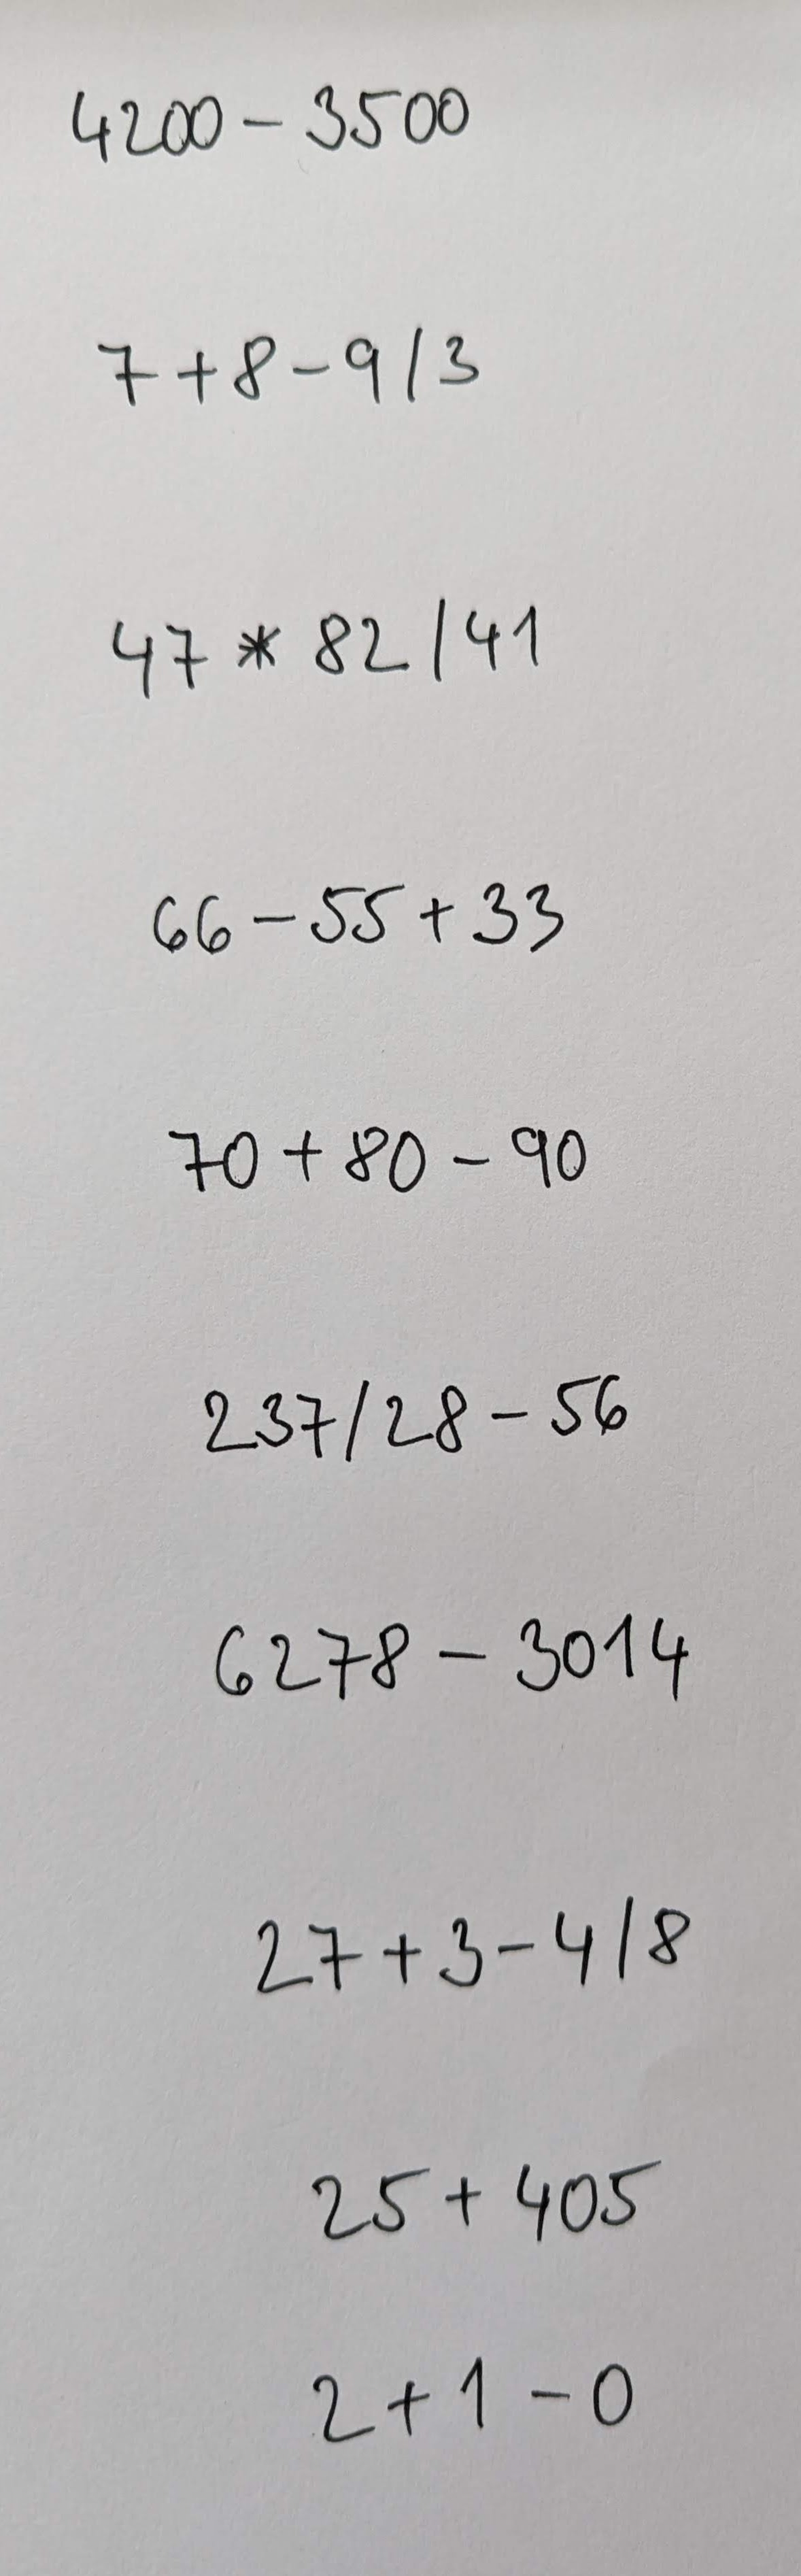
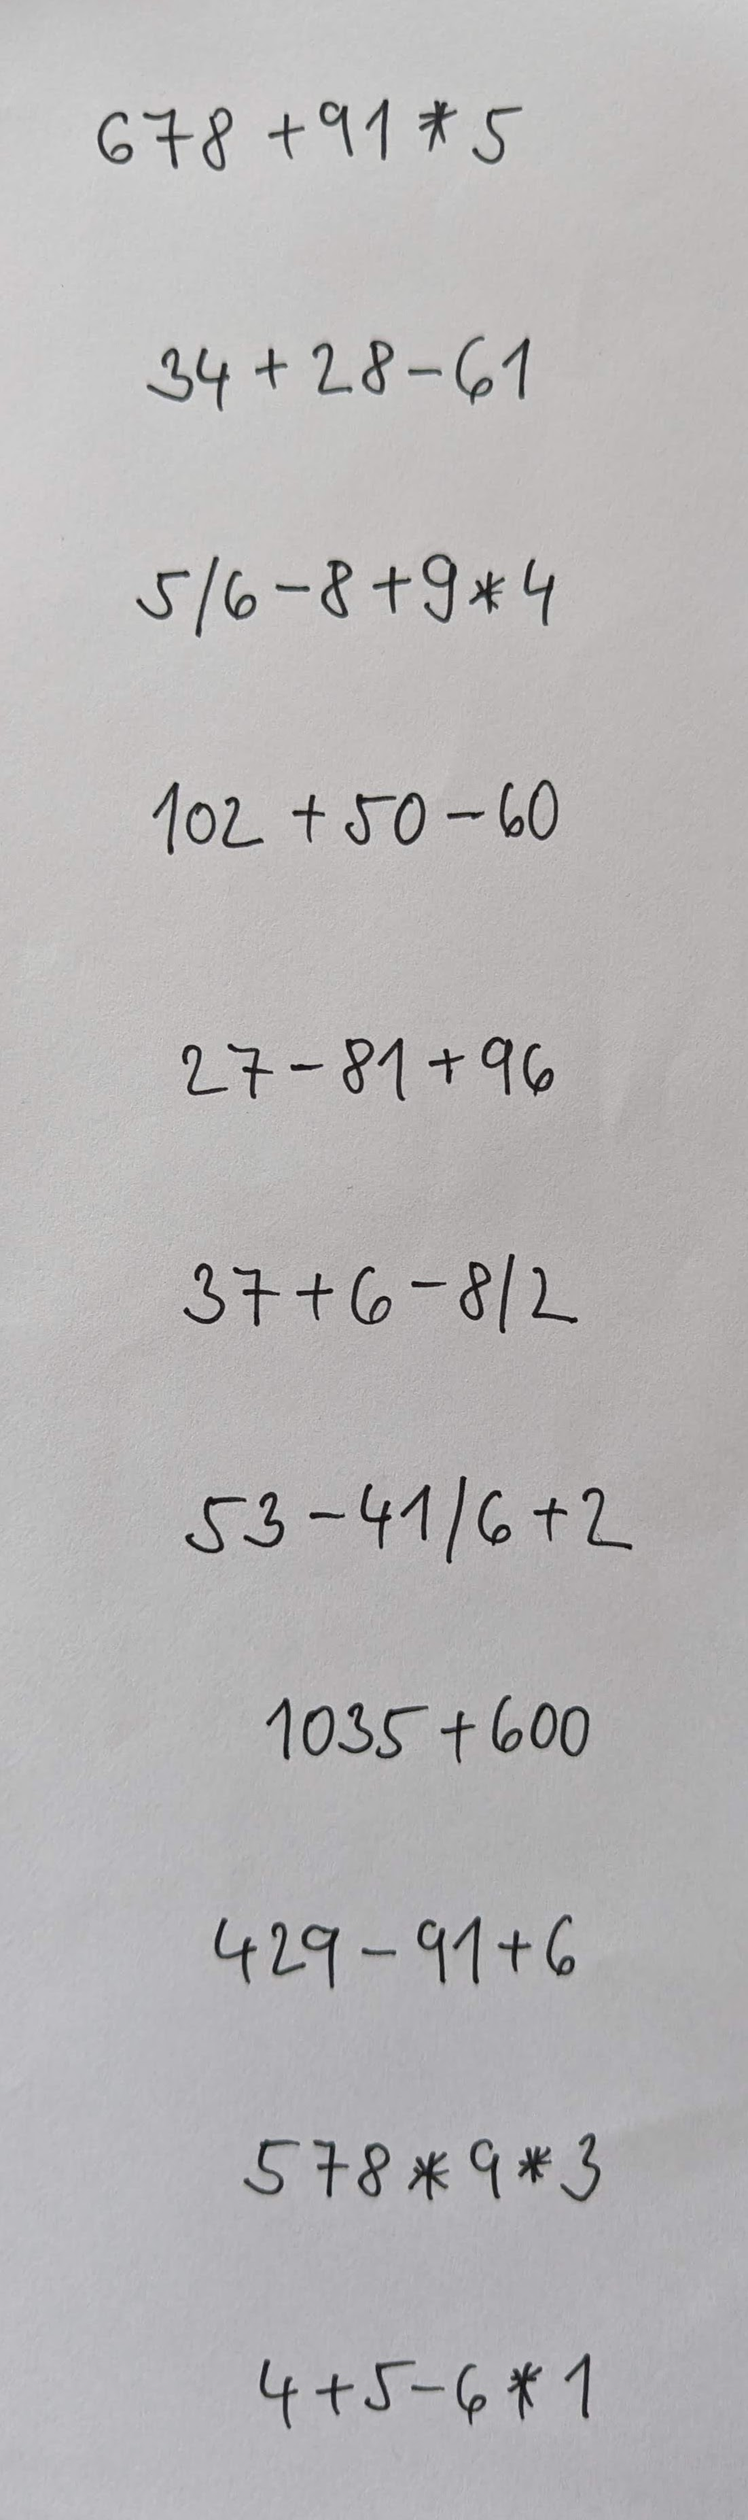
main-rerun of plots

diff --git a/GUI.py b/GUI.py
@@ -24,8 +24,9 @@ def extract_equations(model, image_filename, mser_detector=None):
         predictions = model(sample)
         string_labels = hwe.extract_string_labels(predictions)
         
+        string_labels = []
         area = image[row1:row2, col1:col2]
-        weight = 4
+        weight = 5
         if mser_detector is not None:
             gray = (area * 255).astype(np.uint8)
             gray = 255 - gray
@@ -33,7 +34,7 @@ def extract_equations(model, image_filename, mser_detector=None):
             img = cv2.cvtColor(padded_gray, cv2.COLOR_GRAY2BGR)
             img = imutils.resize(img, width=320, inter=cv2.INTER_AREA)
             valid_boxes, labels, probabilities = mser_detector.detect_digits_in_img(img, False, False)
-            eq_results = mser_detector.compute_equation(valid_boxes, labels, probabilities, 4)
+            eq_results = mser_detector.compute_equation(valid_boxes, labels, probabilities, 3)
             for equation_result in eq_results:
                 for _ in range(0, weight):
                     string_labels.append(equation_result)

diff --git a/testing/writers/labeling.py b/testing/writers/labeling.py
@@ -7,25 +7,27 @@ from const_config import WRITERS_LABELS
 
 with open(WRITERS_LABELS, "wb") as labels_file:
     pickle.dump([
-        "2378+88",
-        "785+6",
-        "6-7/2*3+4",
-        "76+34-25",
-        "4+5-6*7/8",
-        "11+7-89*9",
-        "46/23-35",
-        "21+81",
+        "78*25",
+        "2500/372",
+        "56+13-48",
+        "37*29-11",
+        "12/58*34",
+        "562-81+6",
+        "6023-7865",
+        "234+18+9",
+        "7+8-2*3",
 
-        "4200-3500",
-        "7+8-9/3",
-        "47*82/41",
-        "66-55+33",
-        "70+80-90",
-        "237/28-56",
-        "6278-3014",
-        "27+3-4/8",
-        "25+405",
-        "2+1-0",
+        "678+91*5",
+        "34+28-61",
+        "5/6-8+9*4",
+        "102+50-60",
+        "27-81+96",
+        "37+6-8/2",
+        "53-41/6+2",
+        "1035+600",
+        "429-91+6",
+        "578*9*3",
+        "4+5-6*1",
 
         "435+637*924",
         "100/50*23-69",

diff --git a/final.py b/final.py
@@ -145,18 +145,18 @@ def evaluate_MSER_on_handrwritten(mser_detector):
 
 def predict_MSER(mser_detector, area):
     string_labels = []
-    weight = 4
     gray = (area * 255).astype(np.uint8)
     gray = 255 - gray
     padded_gray = cv2.copyMakeBorder(gray, 80, 80, 120, 120, cv2.BORDER_CONSTANT, value=255)
     img = cv2.cvtColor(padded_gray, cv2.COLOR_GRAY2BGR)
     img = imutils.resize(img, width=320, inter=cv2.INTER_AREA)
     valid_boxes, labels, probabilities = mser_detector.detect_digits_in_img(img, False, False)
-    eq_results = mser_detector.compute_equation(valid_boxes, labels, probabilities, 4)
+    eq_results = mser_detector.compute_equation(valid_boxes, labels, probabilities, 2)
+    weight = 6
     for equation_result in eq_results:
         for _ in range(0, weight):
             string_labels.append(equation_result)
-        weight = weight - 1
+        weight = weight - 2
     
     return string_labels
 

diff --git a/data_preprocessing/handwritten_equtions.py b/data_preprocessing/handwritten_equtions.py
@@ -118,11 +118,9 @@ def extract_string_labels(predictions):
     return string_labels
 
 def parse_string_labels(string_labels):
-    filtered_string_labels = [ string_label for string_label in string_labels if re.match(r"^(\d+[\+\-\*/])+\d+$", string_label) ]
-
     try:
-        final_prediction = max(filtered_string_labels, key=lambda x: sum([x == y for y in filtered_string_labels]))
+        final_prediction = max(string_labels, key=lambda x: sum([x == y for y in string_labels]))
     except:
-        final_prediction = "error"
+        final_prediction = ""
 
     return final_prediction
